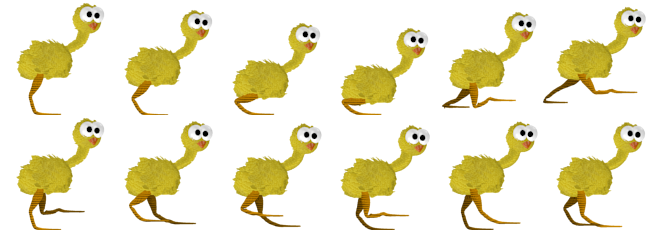
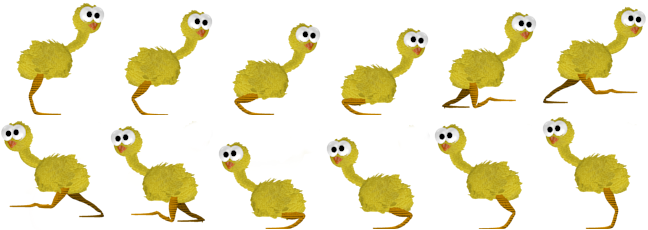
got losing life when falling off platform working

Changed region(s): [[0.0, 0.5174, 1.0, 1.0]]

diff --git a/js/level2.js b/js/level2.js
@@ -24,9 +24,9 @@ var level2state = {
 
 create: function () {
 
-		game.scale.scaleMode = Phaser.ScaleManager.RESIZE;
-
-		game.world.setBounds(0, 0, 2000, 800);
+		// game.scale.scaleMode = Phaser.ScaleManager.RESIZE;
+    //
+		// game.world.setBounds(0, 0, 2000, 800);
 
     // Add background music
     music = game.add.audio('level2', 1, true);
@@ -54,7 +54,7 @@ create: function () {
     platforms.enableBody = true;
 
     // Create the ground.
-    var ground = platforms.create(0, game.world.height - 70, 'desertPlatform1');
+    var ground = platforms.create(0, game.world.height - 70, 'desertPlatform2');
 
     //  Scale it to fit the width of the game
     ground.scale.setTo(1, 1);
@@ -63,10 +63,10 @@ create: function () {
     ground.body.immovable = true;
 
     //  Create the ledges
-    var ledge = platforms.create(400, 550, 'platform1');
+    var ledge = platforms.create(400, 550, 'desertPlatform2');
     ledge.body.immovable = true;
 
-    ledge = platforms.create(-150, 350, 'desertPlatform1');
+    ledge = platforms.create(-150, 250, 'desertPlatform1');
     ledge.body.immovable = true;
 
 		ledge = platforms.create(500, 200, 'desertPlatform2');
@@ -75,14 +75,14 @@ create: function () {
 		ledge = platforms.create(1200, 550, 'desertPlatform3');
     ledge.body.immovable = true;
 
-		ledge = platforms.create(1400, 400, 'platform3');
+		ledge = platforms.create(1400, 400, 'desertPlatform3');
     ledge.body.immovable = true;
 
-		ledge = platforms.create(1500, 200, 'platform2');
+		ledge = platforms.create(1500, 200, 'desertPlatform2');
     ledge.body.immovable = true;
 
     // Player settings
-    player = game.add.sprite(32, game.world.height - 300, 'chicken');
+    player = game.add.sprite(0, 0, 'blueChicken');
 
     //  Player physics
     game.physics.arcade.enable(player);
@@ -97,7 +97,7 @@ create: function () {
     game.physics.arcade.checkCollision.down = false;
 
     //  Walking left and right.
-    player.animations.add('left', [0, 9, 10], 10, true);
+    player.animations.add('left', [11, 6, 7], 10, true);
     player.animations.add('right', [0, 4, 5], 10, true);
 
     //  Create stars
@@ -120,7 +120,7 @@ create: function () {
     }
 
 		// Make the world bigger (maybe tweak this when your level grows)
-		game.world.resize(6000, 600)
+		// game.world.resize(6000, 600)
 
     // Text style variable for multiple use
     textStyle = { font: '32px Arial', fill: 'white' };
@@ -140,10 +140,10 @@ create: function () {
 
     // Lives text fixed to camera
 		livesText.fixedToCamera = true;
-    livesText.cameraOffset.setTo(270, 20);
+    livesText.cameraOffset.setTo(285, 20);
 
-			//registration point for camera
-		 player.anchor.setTo(5, 1);
+			//registration point for camera ??
+		 player.anchor.setTo(4.5, 2);
 		 game.camera.follow(player, 200, 1, 1);
 
 
@@ -171,21 +171,21 @@ create: function () {
 			    style = 'STYLE_TOPDOWN_TIGHT';
 			}
 
-			// create spiky monsters
-			spikys = game.add.group();
-
-			//  Enable physics for spiky monster
-			spikys.enableBody = true;
-
-			//  create 4 evenly spaced apart
-			for (var i = 0; i < 5; i++)
-			{
-					//  Create a spiky monster inside of the 'spiky' group
-					var spiky = spikys.create(i * 600, 0, 'spiky');
-
-					// //  Spiky gravity
-	        spiky.body.gravity.y = 300;
-			}
+			// // create spiky monsters
+			// spikys = game.add.group();
+      //
+			// //  Enable physics for spiky monster
+			// spikys.enableBody = true;
+      //
+			// //  create 4 evenly spaced apart
+			// for (var i = 0; i < 5; i++)
+			// {
+			// 		//  Create a spiky monster inside of the 'spiky' group
+			// 		var spiky = spikys.create(i * 600, 0, 'spiky');
+      //
+			// 		// //  Spiky gravity
+	    //     spiky.body.gravity.y = 300;
+			// }
 
       // Create the locker
       locks = game.add.group();
@@ -226,18 +226,19 @@ update: function () {
     //  Checks to see if the player overlaps with the key, if he does call the collectKey function
     game.physics.arcade.collide(player, keys, this.collectKey, null, this);
 
-		//  Collide the player and the spiky monster
-		game.physics.arcade.collide(player, ground);
-    game.physics.arcade.collide(player, platforms);
-		game.physics.arcade.collide(spikys, ground);
-    game.physics.arcade.collide(spikys, platforms);
-
-		//  Checks to see if the player collide with any of the spiky monsters, if he does call the gameOver function
-		game.physics.arcade.collide(player, spikys, this.gameOver, null, this);
+		// //  Collide the player and the spiky monster
+		// game.physics.arcade.collide(player, ground);
+    // game.physics.arcade.collide(player, platforms);
+		// game.physics.arcade.collide(spikys, ground);
+    // game.physics.arcade.collide(spikys, platforms);
+    //
+		// //  Checks to see if the player collide with any of the spiky monsters, if he does call the gameOver function
+		// game.physics.arcade.collide(player, spikys, this.gameOver, null, this);
 
      // Collide the player and the lock
     game.physics.arcade.collide(player, platforms);
     game.physics.arcade.collide(locks, platforms);
+
 
     // Checks to see if the player collide with the lock, has the key and if he does call the win function
     if (this.hasKey && player.body.touching.down && hitPlatform) {
@@ -332,7 +333,7 @@ collectKey: function (player, key) {
     if (this.hasKey = true) {
 
       keyIcons = game.add.group();
-      var keyIcon = keyIcons.create(300, 40, 'key2');
+      var keyIcon = keyIcons.create(330, 40, 'key2');
       keyIcon.anchor.set(0, 0.5);
 
       keyIcon.fixedToCamera = true;
@@ -344,8 +345,10 @@ collectKey: function (player, key) {
 
 win: function (player, lock) {
 
+  // Mute sound
   game.sound.mute = true;
 
+  // Run the win state
   game.state.start('win');
 },
 
@@ -367,10 +370,14 @@ gameOver: function (player, spiky) {
 
       }  else {
 
+        // Reset the score and lives
         lives = 3;
         score = 0;
+
+        // Mute sound
         game.sound.mute = true;
-        // Run the game over loadState
+
+        // Run the game over state
         game.state.start('gameOver');
       }
 }

diff --git a/js/level1.js b/js/level1.js
@@ -28,6 +28,8 @@ create: function () {
 		game.scale.scaleMode = Phaser.ScaleManager.RESIZE;
 
 		game.world.setBounds(0, 0, 2000, 800);
+		game.world.checkWorldBounds = true;
+
 
     // Add background music
     music = game.add.audio('level1', 1, true);
@@ -78,23 +80,27 @@ create: function () {
 		ledge = platforms.create(1500, 200, 'platform2');
     ledge.body.immovable = true;
 
+
     // Player settings
     player = game.add.sprite(32, game.world.height - 300, 'chicken');
 
     //  Player physics
     game.physics.arcade.enable(player);
 
+    // turn off the collision with the bottom of the world
+    game.physics.arcade.checkCollision.down = false;
+
     //  Player physics properties, bounce
     player.body.bounce.y = 0.2;
     player.body.gravity.y = 300;
     player.body.collideWorldBounds = true;
-		player.body.outOfBoundsKill = true;
+  	player.body.outOfBoundsKill = true;
 
-		// turn off the player collision with the bottom of the world
-    game.physics.arcade.checkCollision.down = false;
+  	// // turn off the player collision with the bottom of the world
+    // game.physics.arcade.checkCollision.down = false;
 
     //  Walking left and right.
-    player.animations.add('left', [0, 9, 10], 10, true);
+    player.animations.add('left', [11, 6, 7], 10, true);
     player.animations.add('right', [0, 4, 5], 10, true);
 
     //  Create stars
@@ -232,6 +238,12 @@ update: function () {
 		//  Checks to see if the player collide with any of the spiky monsters, if he does call the gameOver function
 		game.physics.arcade.collide(player, spikys, this.gameOver, null, this);
 
+    if (player.body.position.y > game.world.height) {
+      console.log('working');
+        this.gameOver(player, null);
+    }
+
+
      // Collide the player and the lock
     game.physics.arcade.collide(player, platforms);
     game.physics.arcade.collide(locks, platforms);
@@ -242,7 +254,6 @@ update: function () {
     } else {
 
     }
-
 
     //  Reset the players velocity (movement)
     player.body.velocity.x = 0;
@@ -341,8 +352,10 @@ collectKey: function (player, key) {
 
 win: function (player, lock) {
 
+  // Mute the sound
   game.sound.mute = true;
 
+  // Run the level 2 state
   game.state.start('level2');
 },
 
@@ -364,9 +377,13 @@ gameOver: function (player, spiky) {
 
       }  else {
 
+        // Reset the score and lives
         lives = 3;
         score = 0;
+
+        // Mute the sound
         game.sound.mute = true;
+
         // Run the game over loadState
         game.state.start('gameOver');
       }

diff --git a/js/load.js b/js/load.js
@@ -4,16 +4,8 @@ var loadState = {
 
   		game.load.image('sky', 'assets/sky.png');
   		game.load.image('mountain', 'assets/mountain.png');
-  		game.load.image('mountain', 'assets/mountain.png');
-  		game.load.image('background', 'assets/Background.png');
-  		game.load.image('mountains', 'assets/Mountains.png');
-  		game.load.image('sun', 'assets/sun.png');
-  		game.load.image('layer4', 'assets/Layer4.png');
-  		game.load.image('layer3', 'assets/Layer3.png');
-  		game.load.image('layer2', 'assets/Layer2.png');
-      game.load.image('layer1', 'assets/Layer1.png');
-      game.load.image('ground', 'assets/ground.png');
       game.load.image('desert', 'assets/desert.png');
+      game.load.image('ground', 'assets/ground.png');
       game.load.image('platform1', 'assets/platform1.png');
       game.load.image('platform2', 'assets/platform2.png');
   		game.load.image('platform3', 'assets/platform3.png');
@@ -25,6 +17,7 @@ var loadState = {
       game.load.image('star', 'assets/star.png');
       game.load.image('spiky', 'assets/spiky-monster.png', 35, 40);
       game.load.spritesheet('chicken', 'assets/chicken.png', 108, 115);
+      game.load.spritesheet('blueChicken', 'assets/bluechicken.png', 108, 115);
       game.load.image('lock1', 'assets/lockYellow.png');
       game.load.image('lock2', 'assets/lockRed.png');
       game.load.image('key1', 'assets/keyYellow.png');
